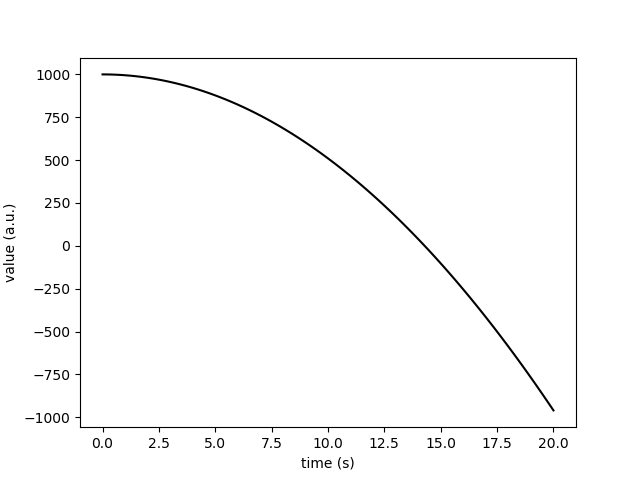
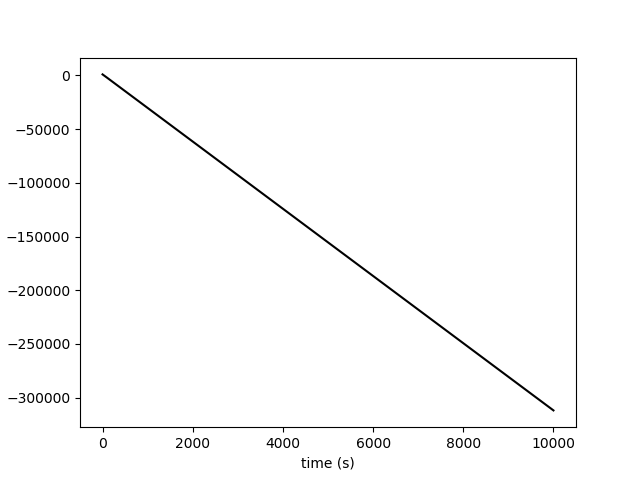
traject fixes

diff --git a/lab16/traject.py b/lab16/traject.py
@@ -5,13 +5,13 @@ from scipy.interpolate import interp1d
 import matplotlib
 import pylab as pl
 
-def freefall(Y,t): return [Y[1],-9.8]
+def freefall(Y,t): return [Y[1],-9.8 - 0.01*Y[1]*np.abs(Y[1])]
 # here, Y = [y,vy], returns [dy/dt, dvy/dt]
 # where dy/dt = vy (by definition in kinematics!)
 # and dvy/dt is acceleration, define here as g = -9.8, grav accel in the lab.
 
 n = 100 # number of time samples
-tmax = 20 # max time
+tmax = 100 # max time
 t = np.linspace(0,tmax,n) # these are the time samples
 y0, v0 = 1000.0, 0.0      # initial conditions
 sol = odeint(freefall, [y0,v0], t) # solve!
@@ -19,10 +19,12 @@ sol = odeint(freefall, [y0,v0], t) # solve!
 
 altfn = interp1d(t,sol[:,0])
 timefn = interp1d(sol[:,0],t)
+
 print(altfn(tmax))
-print('Time to reach altitude of 800m:', timefn(800),'seconds')
+print('Time to reach altitude of 800m:', timefn(800),'seconds, Terminal Velocity:', sol[:,1][-1])
 
 # here on in, just plotting..
+"""
 print(t.shape,sol.shape)
 pl.plot(t,sol[:,0],'-k')
 pl.xlabel('time (s)')
@@ -31,3 +33,4 @@ pl.ylabel('value (a.u.)')
 imfil = 'tmp.png'
 pl.savefig(imfil)
 
+"""
